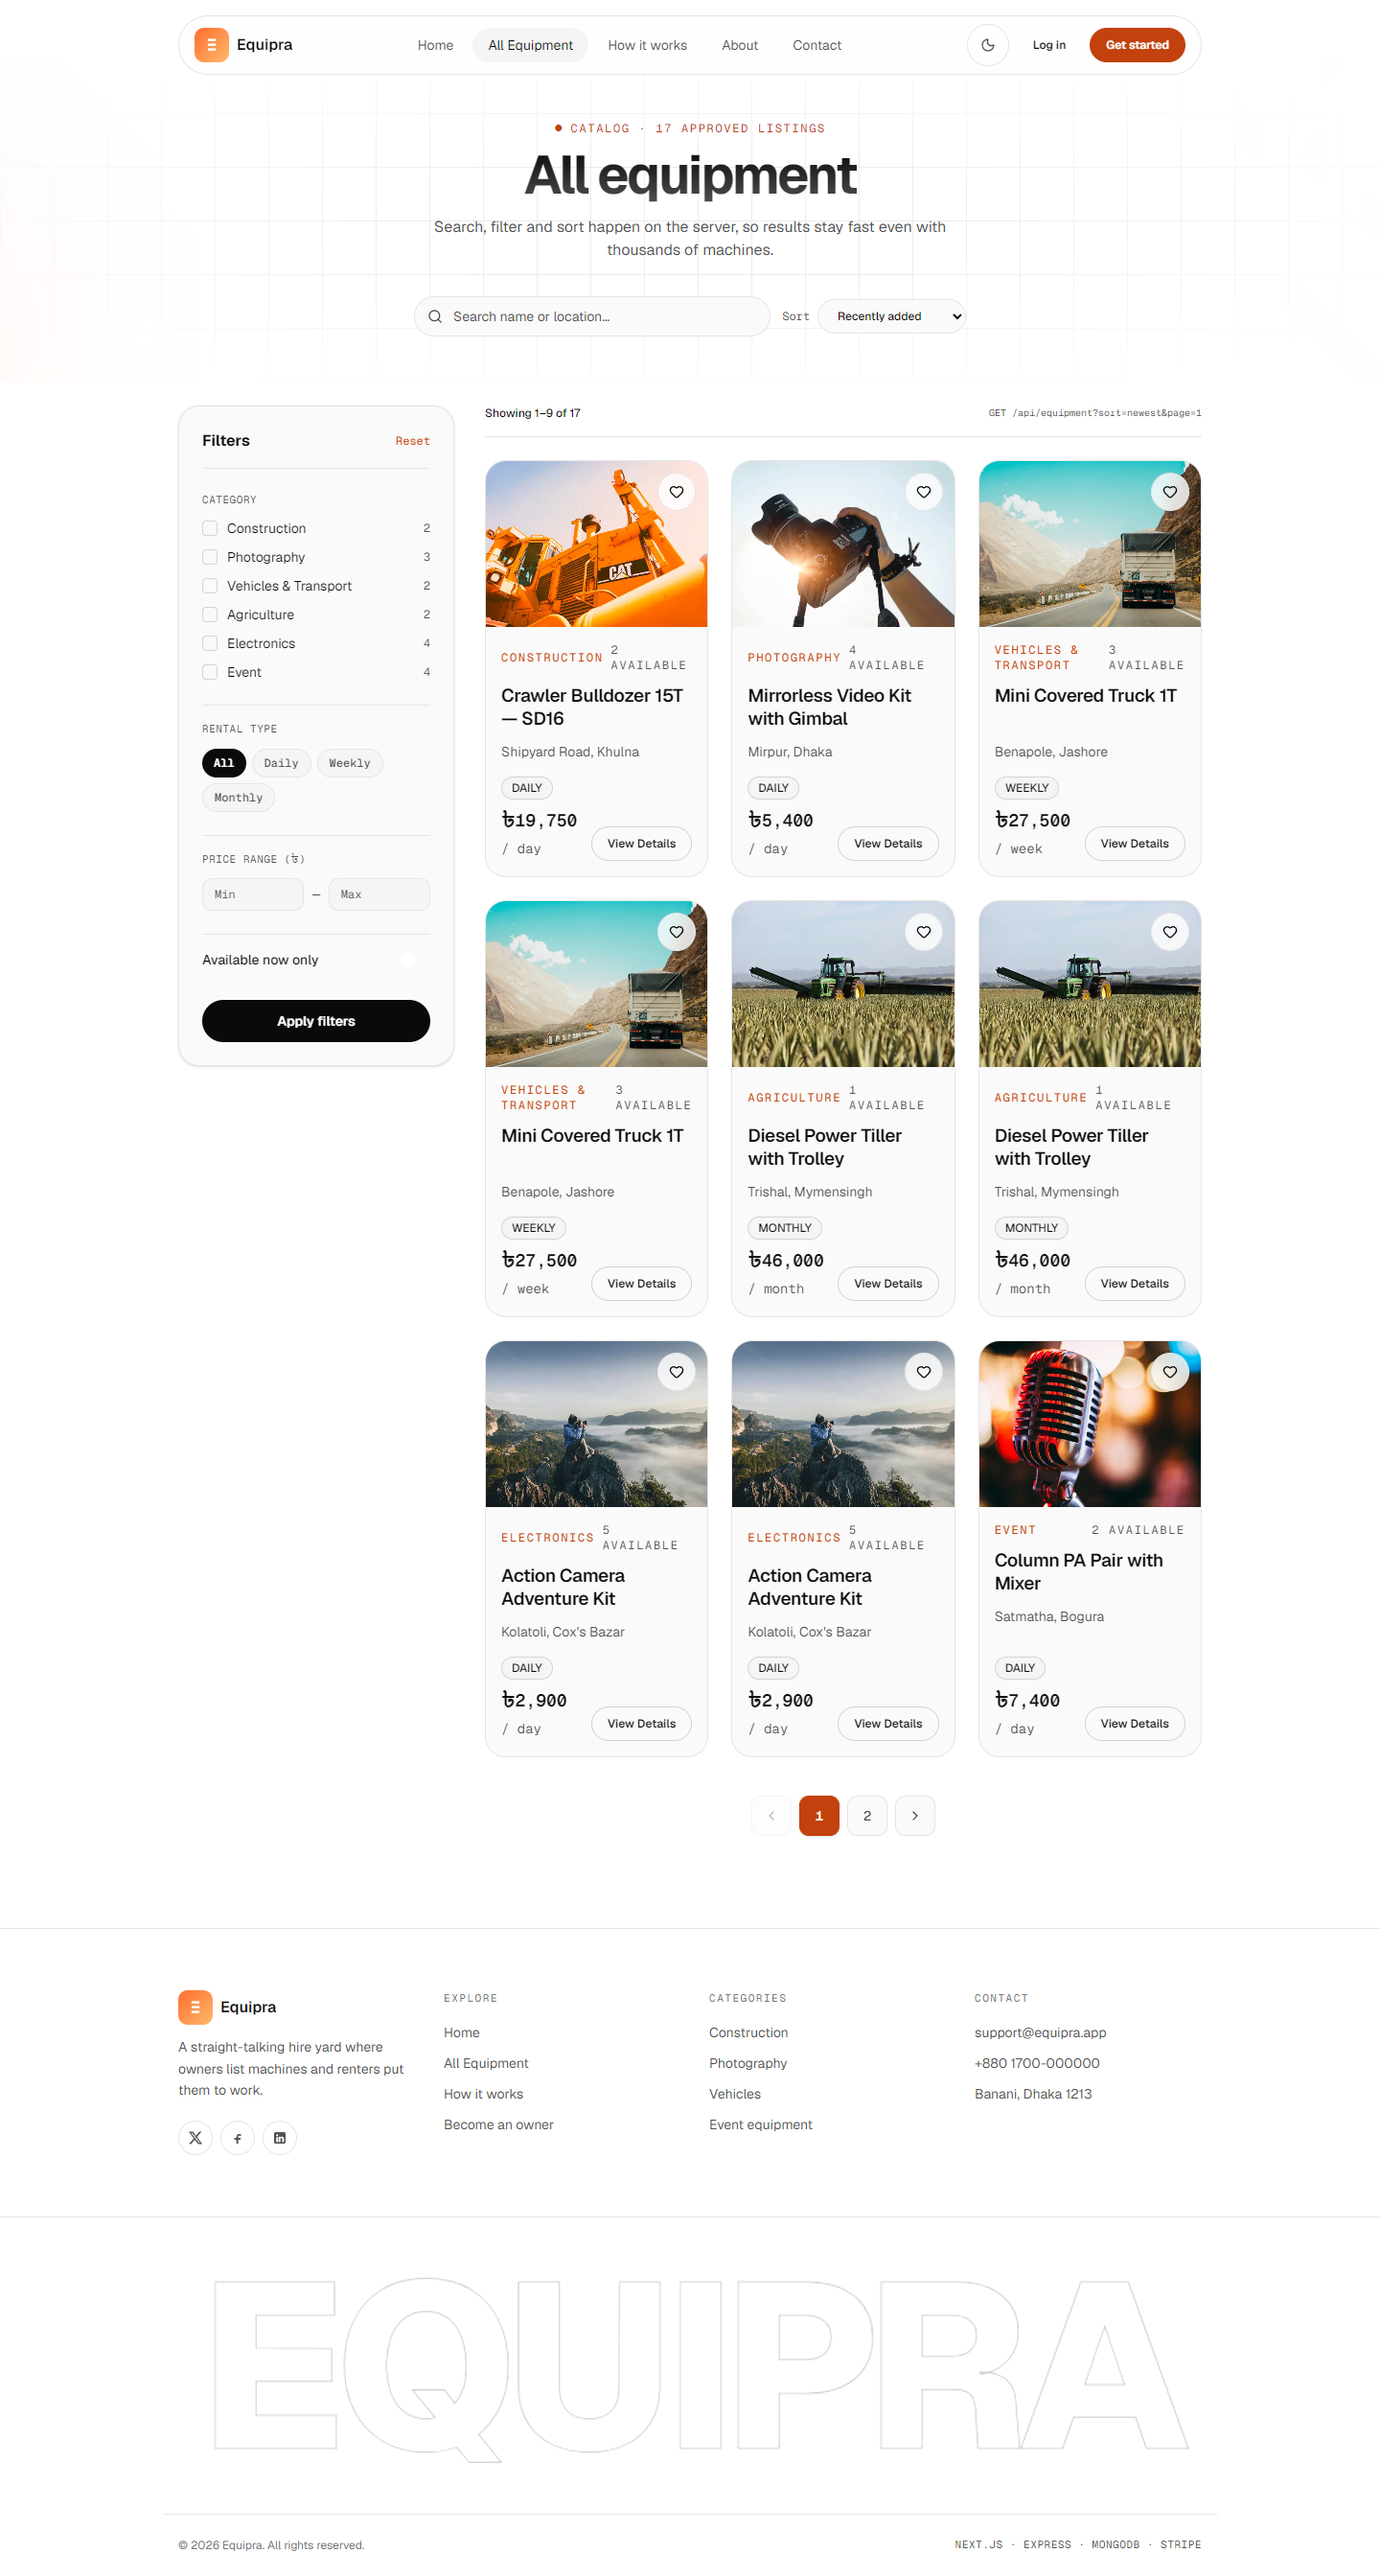
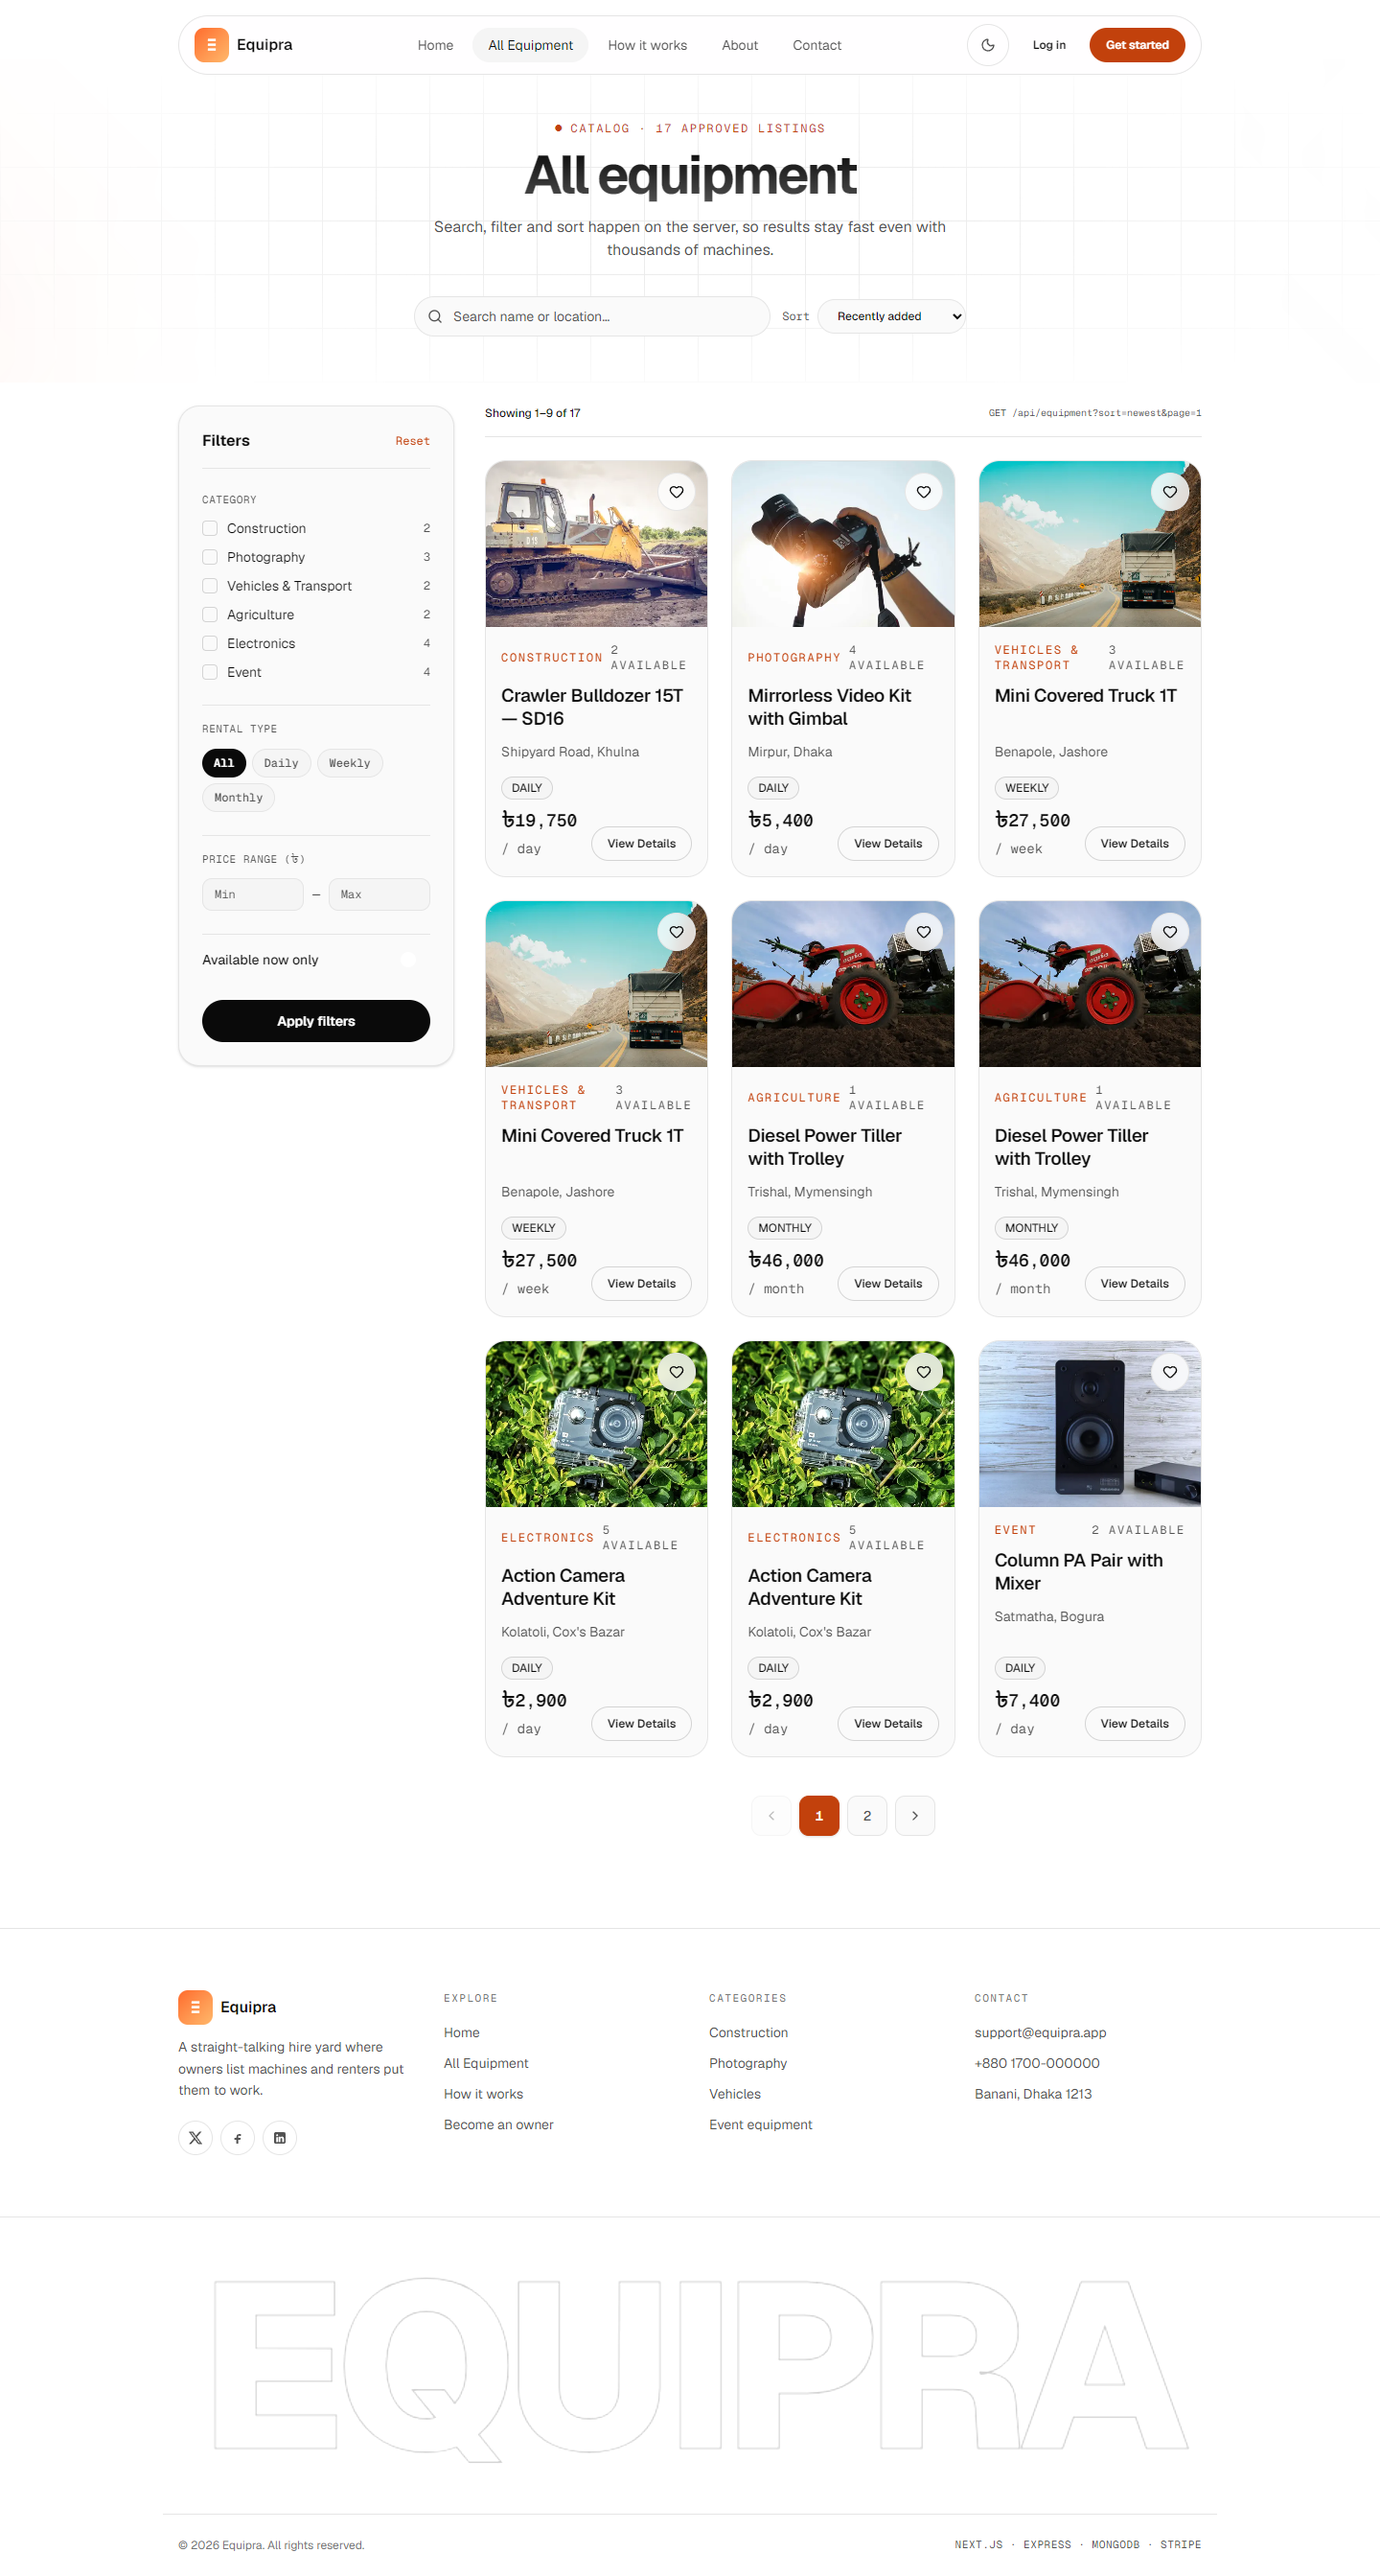
fix(content): photos that match the PA, tiller, dozer and action cam items

Changed region(s): [[0.3438, 0.4942, 0.875, 0.5869], [0.5312, 0.3398, 0.875, 0.4325], [0.3438, 0.1544, 0.5312, 0.2471]]

diff --git a/src/lib/mock/data.js b/src/lib/mock/data.js
@@ -65,7 +65,7 @@ export const equipment = [
     condition: 'Excellent',
     brand: 'Shantui',
     model: 'SD16',
-    image: IMG('1621922688758-359fc864071e'),
+    image: 'https://i.ibb.co/KzKqV11J/equipra-dozer.jpg',
     terms:
       'Minimum 1 day. Renter arranges fuel and an operator. Delivery inside Khulna included; cancellations 48h before start are fully refunded.',
     status: 'approved',
@@ -129,7 +129,7 @@ export const equipment = [
     condition: 'Good',
     brand: 'Sifang',
     model: 'SG-15',
-    image: IMG('1530267981375-f0de937f5f13'),
+    image: 'https://i.ibb.co/KxgQ8jXJ/equipra-tiller.jpg',
     terms: 'Minimum 1 month. Fuel by renter. Operator not included.',
     status: 'approved',
     owner: owners.greenfield,
@@ -149,7 +149,7 @@ export const equipment = [
     condition: 'Excellent',
     brand: 'GoPro',
     model: 'Hero 12',
-    image: IMG('1492691527719-9d1e07e534b4'),
+    image: 'https://i.ibb.co/MDsYXC8T/equipra-actioncam.jpg',
     terms: 'Minimum 1 day. Rinse after salt water. Deposit required.',
     status: 'approved',
     owner: owners.voltedge,
@@ -169,7 +169,7 @@ export const equipment = [
     condition: 'Excellent',
     brand: 'Behringer',
     model: 'Eurolive B215',
-    image: IMG('1511671782779-c97d3d27a1d4'),
+    image: 'https://i.ibb.co/bjWRdCYM/equipra-pa.jpg',
     terms: 'Minimum 1 day. Setup guidance available. Cables included.',
     status: 'approved',
     owner: owners.stageline,

diff --git a/src/components/home/showcase.jsx b/src/components/home/showcase.jsx
@@ -16,7 +16,7 @@ const SHOWCASE_ITEM = {
 };
 
 const HERO_PHOTO =
-  "https://images.unsplash.com/photo-1621922688758-359fc864071e?w=1200&q=75&auto=format&fit=crop";
+  "https://i.ibb.co/KzKqV11J/equipra-dozer.jpg";
 
 export default function Showcase() {
   return (
